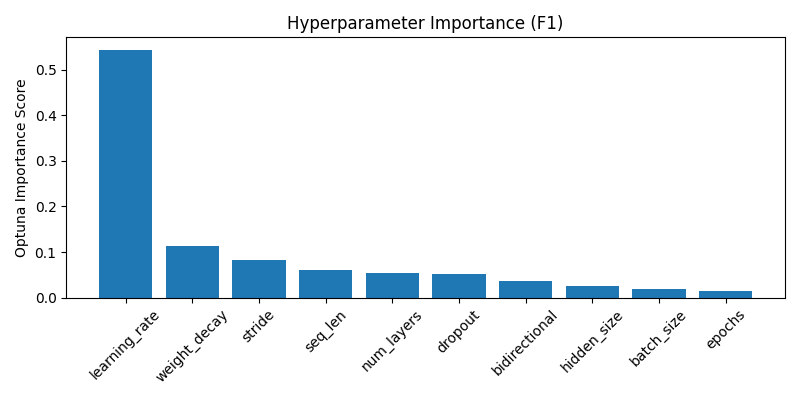
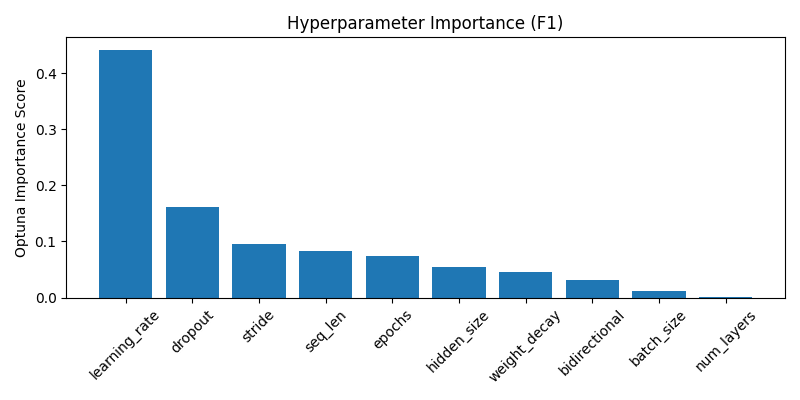
highlights best trial. Note, lr might need to be tuned down in optuna

diff --git a/sleep_wave/reports/study_7242_2025-06-08/optuna_summary_2025-06-08.md b/sleep_wave/reports/study_7242_2025-06-08/optuna_summary_2025-06-08.md
@@ -1,37 +1,37 @@
 # Optuna LSTM Tuning Summary
 - Date: 2025-06-08
 - Subject: 7242
-- Trials: 10
+- Trials: 15
 - Objective: Maximize F1 Score
 
 ---
 
 ## Best Trial
-- **F1 Score**: 0.8260
-- **Threshold**: 0.7
-- **Accuracy**: 0.8364
+- **F1 Score**: 0.8204
+- **Threshold**: 0.6
+- **Accuracy**: 0.8236
 - **Params**
-  - `hidden_size`: 64
-  - `num_layers`: 2
-  - `dropout`: 0.108466076468862
-  - `bidirectional`: True
-  - `learning_rate`: 0.00082609199251563
-  - `stride`: 4
+  - `hidden_size`: 256
+  - `num_layers`: 3
+  - `dropout`: 0.401186224750197
+  - `bidirectional`: False
+  - `learning_rate`: 0.0003304348433563705
+  - `stride`: 1
   - `seq_len`: 128
-  - `epochs`: 13
-  - `batch_size`: 32
-  - `weight_decay`: 0.00010376177657048565
+  - `epochs`: 5
+  - `batch_size`: 128
+  - `weight_decay`: 0.0007086346025533876
 
 ---
 
 ## Top 5 Trials
 | Trial | F1 Score | Threshold | Accuracy |
 |-------|----------|-----------|----------|
-| 9 | 0.8260 | 0.7 | 0.8364 |
-| 3 | 0.7945 | 0.59 | 0.7877 |
-| 4 | 0.7777 | 0.62 | 0.7787 |
-| 5 | 0.7097 | 0.58 | 0.6788 |
-| 6 | 0.5832 | 0.53 | 0.5399 |
+| 14 | 0.8204 | 0.6 | 0.8236 |
+| 12 | 0.8203 | 0.62 | 0.8241 |
+| 13 | 0.8138 | 0.56 | 0.8166 |
+| 11 | 0.7974 | 0.62 | 0.7960 |
+| 3 | 0.7912 | 0.61 | 0.7849 |
 
 ---
 
